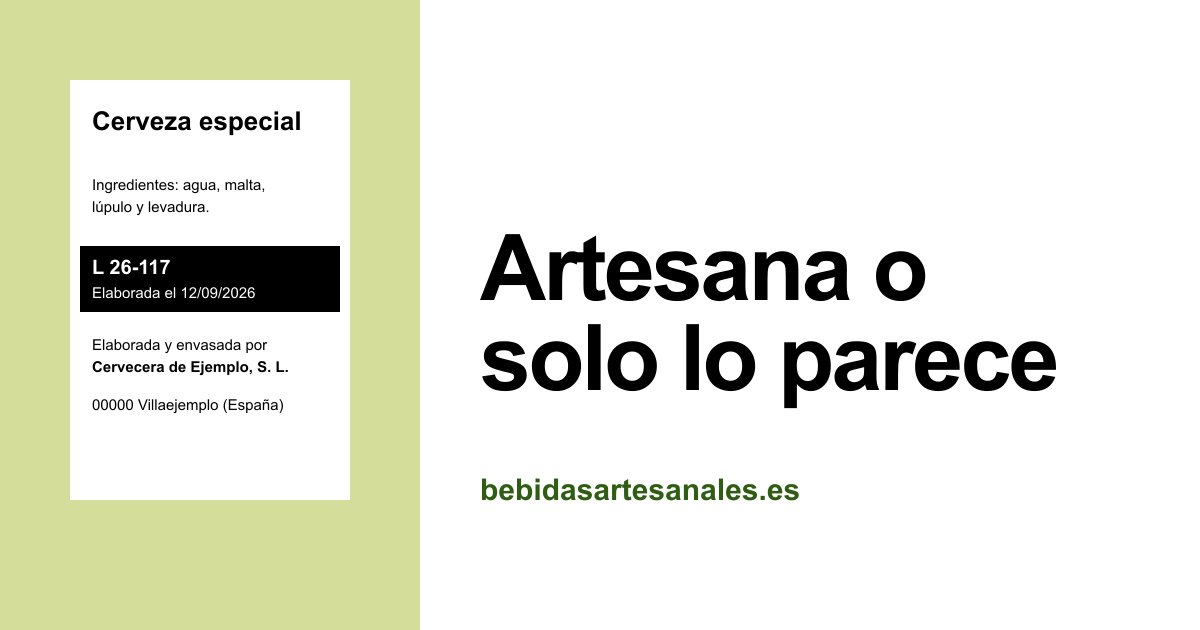
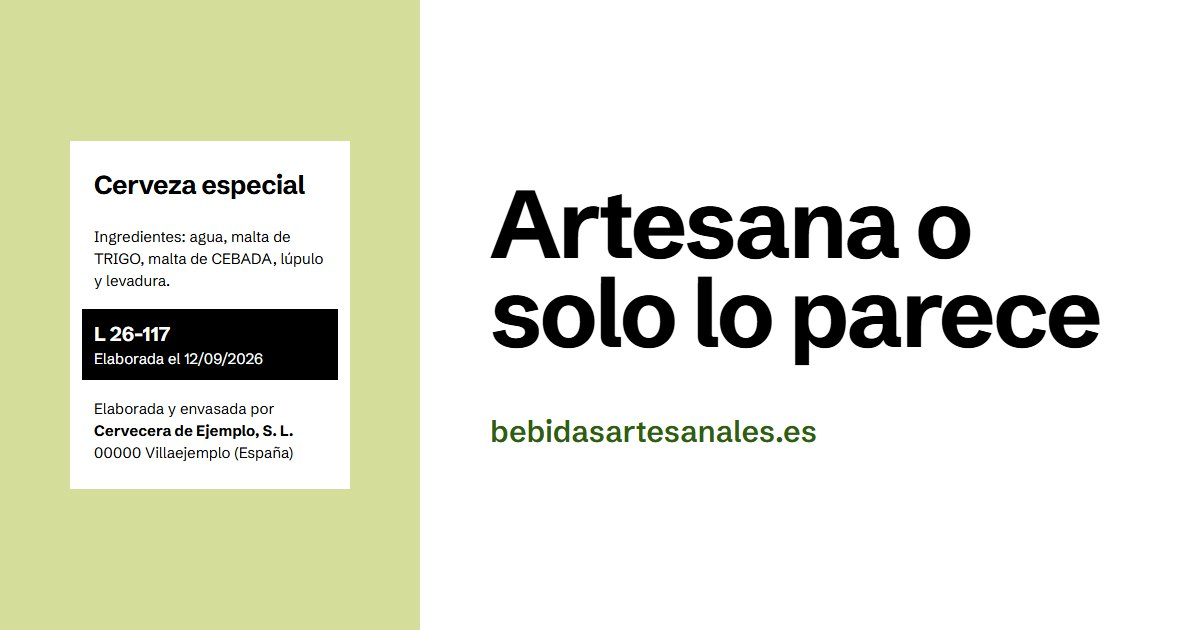
Fase 7: SEO, analítica, legal y dominio
Aviso legal y privacidad (con [CIF] y [DOMICILIO] por completar),
imagen social con la tipografía de la web, títulos y descripciones
dentro de límite, 404 sin indexar, mapa interactivo bajo demanda para
no cargar OpenStreetMap si no se pide, y README con los pasos para
activar Pages, el dominio, GoatCounter y Search Console. Lighthouse
móvil: portada 98/100/100/100, guía 99/100/100/100, mapa 100/100/100/100.

diff --git a/src/assets/js/mapa.js b/src/assets/js/mapa.js
@@ -16,14 +16,21 @@
   let comunidad = params.get("comunidad") || "";
   controles.hidden = false;
 
-  // Carga Leaflet solo aquí, y solo cuando hace falta.
-  const css = document.createElement("link");
-  css.rel = "stylesheet"; css.href = "/assets/vendor/leaflet/leaflet.css";
-  document.head.append(css);
-  const js = document.createElement("script");
-  js.src = "/assets/vendor/leaflet/leaflet.js";
-  js.onload = iniciar;
-  document.head.append(js);
+  // El mapa dibujado se ve siempre. Leaflet y las teselas de OpenStreetMap solo se cargan si se pide.
+  const puntos = [...lienzo.querySelectorAll(".punto")];
+  const abrir = controles.querySelector("[data-abrir-mapa]");
+  abrir.addEventListener("click", () => {
+    abrir.disabled = true;
+    abrir.textContent = "Cargando el mapa…";
+    const css = document.createElement("link");
+    css.rel = "stylesheet"; css.href = "/assets/vendor/leaflet/leaflet.css";
+    document.head.append(css);
+    const js = document.createElement("script");
+    js.src = "/assets/vendor/leaflet/leaflet.js";
+    js.onload = () => { iniciar(); abrir.hidden = true; lienzo.focus({ preventScroll: true }); };
+    js.onerror = () => { abrir.disabled = false; abrir.textContent = "No se pudo cargar. Reintentar"; };
+    document.head.append(js);
+  });
 
   let mapa, capa;
   const marcadores = [];
@@ -31,6 +38,8 @@
   function iniciar() {
     const L = window.L;
     lienzo.innerHTML = "";
+    lienzo.tabIndex = -1;
+    lienzo.setAttribute("aria-label", "Mapa interactivo de productores");
     lienzo.classList.add("con-leaflet");
     mapa = L.map(lienzo, { scrollWheelZoom: false, zoomSnap: 0.25 }).setView([40.2, -3.6], 5.5);
     L.tileLayer("https://tile.openstreetmap.org/{z}/{x}/{y}.png", {
@@ -65,6 +74,7 @@
       if (ok) n++;
     });
     grupos.forEach((g) => { g.hidden = !g.querySelector(".productor:not([hidden])"); });
+    puntos.forEach((p) => p.classList.toggle("fuera", !((familia === "todas" || p.dataset.familia === familia) && (!comunidad || p.dataset.comunidad === comunidad))));
     recuento.textContent = n;
     if (capa) {
       capa.clearLayers();

diff --git a/scripts/og.html b/scripts/og.html
@@ -1,0 +1,15 @@
+<!doctype html><html lang="es"><head><meta charset="utf-8"><style>
+@font-face{font-family:S;src:url(../src/assets/fuentes/schibsted-grotesk.woff2) format("woff2");font-weight:400 900}
+*{margin:0;box-sizing:border-box}html,body{width:1200px;height:630px;overflow:hidden}
+body{font-family:S,sans-serif;display:grid;grid-template-columns:420px 1fr;background:#fff;color:#000}
+.izq{background:#d5dd9a;display:grid;place-items:center}
+.et{background:#fff;width:280px;padding:26px 24px;font-size:15px;line-height:1.45}
+.et b{font-size:26px;display:block;margin-bottom:22px;letter-spacing:-.02em}
+.lote{background:#000;color:#fff;margin:18px -12px;padding:10px 12px}.lote strong{font-size:20px;display:block}
+.der{display:flex;flex-direction:column;justify-content:center;padding:0 70px}
+h1{font-size:96px;line-height:.92;letter-spacing:-.035em;font-weight:700}
+p{margin-top:56px;font-size:30px;font-weight:600;color:#2f5d14}
+</style></head><body>
+<div class="izq"><div class="et"><b>Cerveza especial</b>Ingredientes: agua, malta de TRIGO, malta de CEBADA, lúpulo y levadura.<div class="lote"><strong>L 26-117</strong>Elaborada el 12/09/2026</div>Elaborada y envasada por<br><strong>Cervecera de Ejemplo, S. L.</strong><br>00000 Villaejemplo (España)</div></div>
+<div class="der"><h1>Artesana o<br>solo lo parece</h1><p>bebidasartesanales.es</p></div>
+</body></html>

diff --git a/src/assets/css/mapa.css b/src/assets/css/mapa.css
@@ -14,7 +14,9 @@
 .mapa-lienzo.con-leaflet { display: block; padding: 0; background: var(--surface); }
 .mapa-tierra { fill: #fff; }
 .mapa-canarias { fill: none; stroke: var(--ink); stroke-width: 3; }
-.punto { fill: var(--ink); stroke: var(--field-2); stroke-width: 2; }
+.punto { fill: var(--ink); stroke: var(--field-2); stroke-width: 2; transition: opacity var(--t-ui) ease; }
+.punto.fuera { opacity: .12; }
+.mapa-abrir:disabled { opacity: .7; cursor: progress; }
 .mapa-lienzo .leaflet-tile-pane { filter: grayscale(1) contrast(.95) brightness(1.04); }
 .mapa-lienzo .leaflet-container, .mapa-lienzo .leaflet-container * { font-family: var(--font) !important; }
 .mapa-lienzo .leaflet-control-attribution { font-size: 13px; }

diff --git a/README.md b/README.md
@@ -1,32 +1,93 @@
 # bebidasartesanales.es
 
-Web divulgativa sobre bebidas artesanales en España. Estática, publicada en GitHub Pages.
+Web divulgativa sobre cómo distinguir una bebida artesanal de verdad (cerveza, vermut y destilados, sin alcohol).
+Estática, hecha con Eleventy y publicada en GitHub Pages. El dominio está en venta.
 
-## Cómo arrancar el proyecto con Claude Code (para Gorka)
+---
 
-Antes de la primera vez, en este ordenador tienen que estar instalados:
+## Lo que tienes que hacer tú (Gorka), paso a paso
 
-1. **Node.js 22 (LTS)** — descarga en https://nodejs.org (botón verde "LTS"), instala con todo por defecto.
-2. **Git** — descarga en https://git-scm.com/download/win, instala con todo por defecto.
-3. **Google Chrome** (para que la skill de diseño pueda hacer capturas y medir la web).
+Hay cinco cosas que Claude Code no puede hacer por ti porque necesitan tus cuentas. Hazlas en este orden.
 
-Después:
+### 1. Activar GitHub Pages (imprescindible para que la web se publique)
 
-1. Abre Claude Code en esta carpeta (`C:\Users\Usuario\proyectos\bebidasartesanales`).
-2. Escribe:
+1. Entra en https://github.com/Songorka/bebidasartasenales.es con tu cuenta.
+2. Pulsa **Settings** (arriba a la derecha, con un engranaje).
+3. En el menú de la izquierda, pulsa **Pages**.
+4. En **Build and deployment → Source**, elige **GitHub Actions**.
+5. Ve a la pestaña **Actions** (arriba). Pulsa en el último trabajo, que se llamará "Build and deploy" o "Fase…", y luego en **Re-run all jobs**.
+6. Espera a que salga el círculo verde (un par de minutos). La web ya estará en la dirección que muestra la pantalla de Pages.
 
-   > Lee CLAUDE.md, DISEÑO.md y PLAN.md y ejecuta el plan desde la Fase 0. Trabaja por lotes y solo párate en lo que indican las reglas.
+### 2. Conectar el dominio bebidasartesanales.es
 
-3. Deja que trabaje. Te preguntará solo lo imprescindible.
+**En GitHub:**
+1. Vuelve a **Settings → Pages**.
+2. En **Custom domain** escribe `bebidasartesanales.es` y pulsa **Save**. (El fichero `CNAME` del proyecto ya lo tiene puesto.)
 
-## Qué hay aquí
+**En la web donde compraste el dominio (tu registrador):**
+1. Entra en la gestión del dominio y busca **DNS** o **Zona DNS**.
+2. Borra los registros **A** y **CNAME** que haya para `@` (o el dominio sin nada delante) y para `www`, si los hay.
+3. Crea **cuatro registros A** para `@` con estos valores:
+   - `185.199.108.153`
+   - `185.199.109.153`
+   - `185.199.110.153`
+   - `185.199.111.153`
+4. Crea **un registro CNAME** para `www` con el valor `songorka.github.io`
+5. Guarda. Los cambios pueden tardar desde minutos hasta 24 horas.
 
-- `CLAUDE.md` — instrucciones de trabajo para Claude Code.
-- `DISEÑO.md` — dirección de diseño (qué es la web, qué no debe parecer, la idea, páginas, movimiento, textos).
-- `PLAN.md` — plan de desarrollo por fases con criterios de salida.
-- `.claude/skills/` — skills de diseño que Claude Code usa automáticamente:
-  - `design-taste-frontend` (tasteskill v2, de Leonxlnx — MIT)
-  - `frontend-design` (Anthropic)
-  - `animate`, `animation-vocabulary`, `emil-design-eng` (Emil Kowalski — MIT)
+**Activar HTTPS (el candado):**
+1. Cuando GitHub diga en **Settings → Pages** que el dominio está bien configurado ("DNS check successful"), marca **Enforce HTTPS**.
+2. Si la casilla sale gris, espera unas horas y vuelve a mirar.
 
-El resto de carpetas y ficheros (`src/`, `package.json`, `.github/`, …) los crea Claude Code al ejecutar el plan.
+### 3. Analítica de visitas (GoatCounter, gratis y sin cookies)
+
+Sirve para enseñar a un comprador cuántas visitas tiene la web.
+1. Entra en https://www.goatcounter.com y pulsa **Sign up**.
+2. En **Code** escribe un nombre corto, por ejemplo `bebidasartesanales`. Ese nombre es tu "código".
+3. Completa el registro con tu correo y una contraseña.
+4. Dile a Claude Code: *"Mi código de GoatCounter es bebidasartesanales; actívalo y publica."*
+   (Técnicamente: se escribe en `src/_data/site.json`, en `"goatcounter": ""`.)
+
+### 4. Google Search Console (para que Google indexe la web)
+
+1. Entra en https://search.google.com/search-console con tu cuenta de Google.
+2. Pulsa **Añadir propiedad** y elige **Prefijo de la URL**. Escribe `https://bebidasartesanales.es` y pulsa **Continuar**.
+3. En los métodos de verificación, elige **Etiqueta HTML**. Te dará algo como
+   `<meta name="google-site-verification" content="ABC123…">`. Copia solo lo que va entre las comillas de `content`.
+4. Dile a Claude Code: *"Este es mi código de Search Console: ABC123…; ponlo y publica."*
+   (Se escribe en `src/_data/site.json`, en `"google_site_verification": ""`.)
+5. Cuando esté publicado, vuelve a Search Console y pulsa **Verificar**.
+6. En el menú de la izquierda, pulsa **Sitemaps**, escribe `sitemap.xml` y pulsa **Enviar**.
+
+### 5. Completar el aviso legal
+
+En el aviso legal y en la privacidad aparecen `[CIF]` y `[DOMICILIO]`. Dile a Claude Code:
+*"El CIF de Duaba Directorship es … y el domicilio es …; ponlos y publica."*
+
+### Cuando tengas los vídeos e imágenes de IA
+
+Mira `MEDIOS.md`: ahí están las medidas, los nombres de fichero y las instrucciones para Higgsfield.
+Suelta los ficheros en la carpeta `medios-entrada/` y dile a Claude Code: *"Procesa los medios nuevos y publica."*
+
+---
+
+## Para quien mantenga la web
+
+- Requisitos: Node 22 o superior, Git. Para convertir vídeos, ffmpeg.
+- `npm install` — instala lo necesario.
+- `npm run dev` — servidor de desarrollo en http://localhost:8080.
+- `npm run build` — genera la web en `_site/`.
+- `node scripts/servir.mjs` — sirve `_site/` tal cual se publica.
+- `npm run medios` — procesa imágenes y vídeos (ver `MEDIOS.md`).
+- Puerta de calidad: `npm run lint` y `node .claude/skills/design-taste-frontend/scripts/inspect.mjs http://localhost:8080/`.
+- Publicación: cada `git push` a `main` construye y publica con GitHub Actions (`.github/workflows/deploy.yml`).
+
+### Dónde está cada cosa
+
+- `src/` — páginas (Markdown y Nunjucks), datos en `src/_data/` (productores, señales, familias, test, medios).
+- `src/_data/productores.json` — productores del mapa (nombre, tipo, localidad, web, coordenadas, fuente y fecha de verificación).
+- `docs/investigacion/normativa.md` — dossier de normativa verificada que respalda los textos.
+- `docs/diseno/` — dirección de diseño, notas, copy de la portada y críticas.
+- `CLAUDE.md`, `DISEÑO.md`, `PLAN.md` — instrucciones y plan de trabajo.
+- `.claude/skills/` — skills de diseño: `design-taste-frontend` (tasteskill v2, de Leonxlnx, MIT), `frontend-design` (Anthropic),
+  `animate`, `animation-vocabulary`, `emil-design-eng` (Emil Kowalski, MIT).

diff --git a/src/privacidad.md b/src/privacidad.md
@@ -1,0 +1,37 @@
+---
+layout: pagina.njk
+title: Privacidad
+entradilla: Esta web no usa cookies, no tiene formularios y no te pide ningún dato. Aquí te contamos lo poco que se registra y por qué.
+description: "Política de privacidad de bebidasartesanales.es: sin cookies, sin formularios y con una analítica de visitas anónima."
+permalink: /privacidad/
+migas:
+  - { texto: "Inicio", url: "/" }
+  - { texto: "Privacidad", url: "/privacidad/" }
+---
+
+## Sin cookies
+
+bebidasartesanales.es no instala cookies, ni propias ni de terceros. Por eso no ves ningún aviso de cookies.
+
+## Analítica de visitas anónima
+
+Para saber cuántas personas leen la web y qué páginas interesan más, usamos GoatCounter, un servicio de analítica que no usa cookies ni identifica a las personas. Registra datos agregados como la página visitada, la web desde la que llegas, el tipo de navegador y el país aproximado. No guarda tu dirección IP ni crea un perfil tuyo. Mientras no esté configurada, no se carga.
+
+## «Comprueba tu botella»
+
+Las respuestas del test se calculan en tu propio navegador. No se envían a ningún sitio ni se guardan.
+
+## El mapa
+
+El mapa de productores se muestra dibujado y no pide nada a nadie. Solo si pulsas «Abrir el mapa interactivo» se cargan las imágenes del plano desde los servidores de OpenStreetMap. Como ocurre al cargar cualquier recurso de otra web, esos servidores reciben la dirección IP de tu conexión para poder enviarte las imágenes. Puedes leer su política en [osmfoundation.org](https://osmfoundation.org/wiki/Privacy_Policy).
+
+## Si nos escribes
+
+Si nos escribes por correo electrónico (por ejemplo, para pedir que añadamos tu obrador al mapa o para preguntar por el dominio), usaremos tu dirección y lo que nos cuentes solo para responderte.
+
+- **Responsable:** {{ site.titular }}, NIF {{ site.cif }}, {{ site.domicilio }}.
+- **Finalidad:** responder a tu mensaje y, si eres productor, comprobar y publicar los datos de tu empresa que nos pidas publicar (nombre comercial, localidad y web).
+- **Base legal:** tu consentimiento al escribirnos.
+- **Conservación:** el tiempo necesario para atender tu petición.
+- **Destinatarios:** no cedemos tus datos a nadie, salvo obligación legal.
+- **Tus derechos:** puedes pedir acceso, rectificación, supresión, oposición, limitación y portabilidad escribiendo a [{{ site.correo }}](mailto:{{ site.correo }}). Si crees que no hemos atendido bien tu petición, puedes reclamar ante la [Agencia Española de Protección de Datos](https://www.aepd.es/).

diff --git a/src/aviso-legal.md b/src/aviso-legal.md
@@ -1,0 +1,45 @@
+---
+layout: pagina.njk
+title: Aviso legal
+entradilla: Quién está detrás de esta web y en qué condiciones puedes usarla.
+description: "Aviso legal de bebidasartesanales.es: titular, datos de contacto, condiciones de uso y propiedad intelectual."
+permalink: /aviso-legal/
+migas:
+  - { texto: "Inicio", url: "/" }
+  - { texto: "Aviso legal", url: "/aviso-legal/" }
+---
+
+## Titular de la web
+
+En cumplimiento del artículo 10 de la Ley 34/2002, de servicios de la sociedad de la información y de comercio electrónico, estos son los datos del titular de bebidasartesanales.es:
+
+- **Titular:** {{ site.titular }}
+- **NIF:** {{ site.cif }}
+- **Domicilio:** {{ site.domicilio }}
+- **Correo electrónico:** [{{ site.correo }}](mailto:{{ site.correo }})
+
+## Qué es esta web
+
+bebidasartesanales.es es una web divulgativa. Explica cómo leer la etiqueta de una bebida y cómo distinguir una bebida artesanal de una que solo lo parece. No vende productos, no tiene tienda y no cobra a los productores por aparecer en el mapa.
+
+El dominio bebidasartesanales.es está en venta. Si te interesa, escribe a [{{ site.correo }}](mailto:{{ site.correo }}?subject=Compra%20del%20dominio%20bebidasartesanales.es).
+
+## Contenido y responsabilidad
+
+Los textos tienen fines informativos. Las referencias a normas se han comprobado en fuentes oficiales, que se citan al final de cada página, en la fecha de revisión indicada. Las normas cambian: si algo te afecta profesionalmente, consulta siempre el texto vigente en el boletín oficial correspondiente.
+
+Las etiquetas, marcas, empresas, direcciones y lotes que aparecen en los dibujos de esta web son inventados. Los productores del mapa son reales; sus datos (nombre comercial, localidad y web) se han tomado de sus propias webs. Si eres uno de ellos y quieres corregir o retirar tus datos, escríbenos y lo haremos.
+
+Esta web enlaza a webs de terceros. No controlamos su contenido ni respondemos de él.
+
+## Consumo responsable
+
+Esta web habla de bebidas alcohólicas y está dirigida a personas mayores de 18 años. Si bebes alcohol, hazlo con moderación.
+
+## Propiedad intelectual
+
+Los textos y dibujos de esta web pertenecen a su titular, salvo que se indique otra cosa. Puedes citarlos con un enlace a la página de origen. Las fotografías de archivo pertenecen a sus autores y se usan con las licencias indicadas en [créditos de imágenes](/creditos/).
+
+## Legislación aplicable
+
+Esta web se rige por la legislación española.
